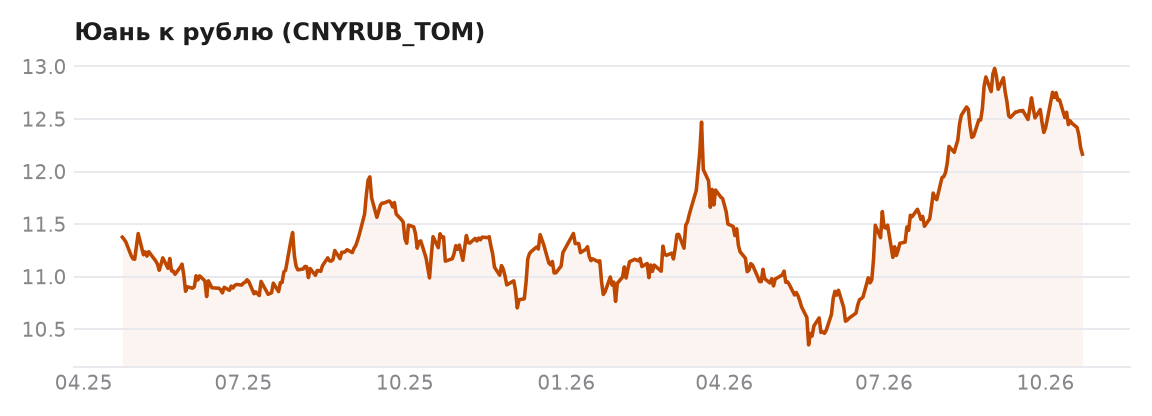
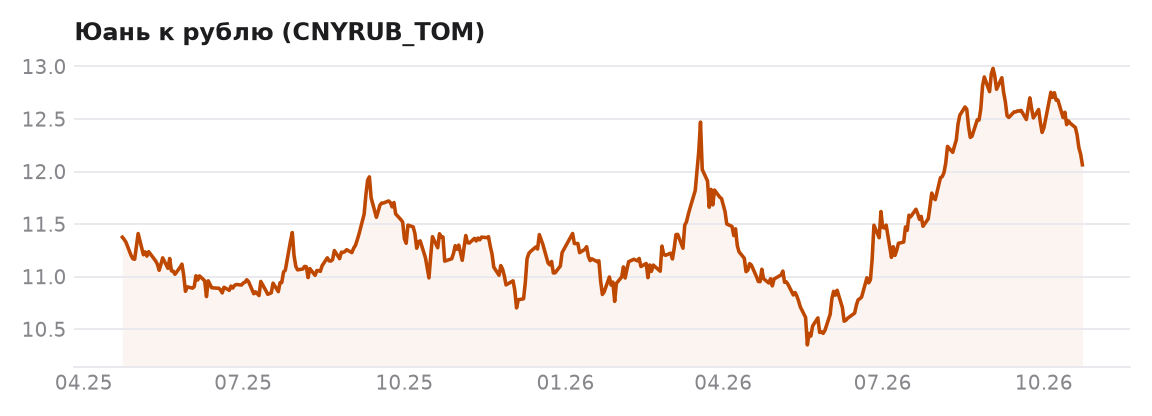
data: обновление 2026-10-23

diff --git a/README.md b/README.md
@@ -7,17 +7,17 @@
 Таблицу и графики ниже собирает робот, вручную здесь ничего не правится.
 
 <!-- PULSE:START -->
-*Последние торги: 22.10.2026. Обновляется автоматически каждую ночь.*
+*Последние торги: 23.10.2026. Обновляется автоматически каждую ночь.*
 
 | | Значение | За день | За месяц | С начала года |
 |---|---:|---:|---:|---:|
-| Индекс МосБиржи | 2 432 | −0,7% | +5,7% | −12,1% |
-| Индекс гособлигаций RGBI | 111,99 | −0,1% | −0,3% | −5,2% |
-| Юань | 12,16 ₽ | −0,5% | −3,5% | +8,3% |
-| Сбербанк | 291,20 ₽ | −0,1% | +3,7% | −2,9% |
-| Т-Технологии | 268,88 ₽ | −0,6% | +4,1% | −18,0% |
-| ВТБ | 56,55 ₽ | −0,9% | +10,0% | −21,7% |
-| Мосбиржа | 154,09 ₽ | −0,8% | +2,3% | −11,1% |
+| Индекс МосБиржи | 2 469 | +1,6% | +6,8% | −10,7% |
+| Индекс гособлигаций RGBI | 111,89 | −0,1% | −0,5% | −5,2% |
+| Юань | 12,06 ₽ | −0,8% | −5,0% | +7,4% |
+| Сбербанк | 292,32 ₽ | +0,4% | +4,1% | −2,5% |
+| Т-Технологии | 269,66 ₽ | +0,3% | +3,6% | −17,8% |
+| ВТБ | 56,94 ₽ | +0,7% | +10,0% | −21,2% |
+| Мосбиржа | 155,37 ₽ | +0,8% | +3,2% | −10,3% |
 
 Цены акций скорректированы на корпоративные события: Т-Технологии — сплит 10:1 (17.04.2026); ВТБ — консолидация 1:5000 (15.07.2024).
 
